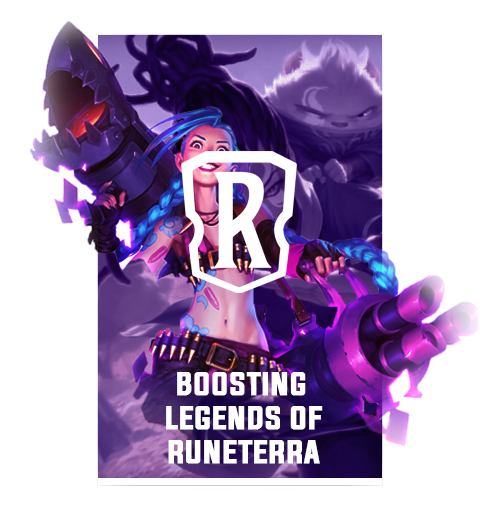
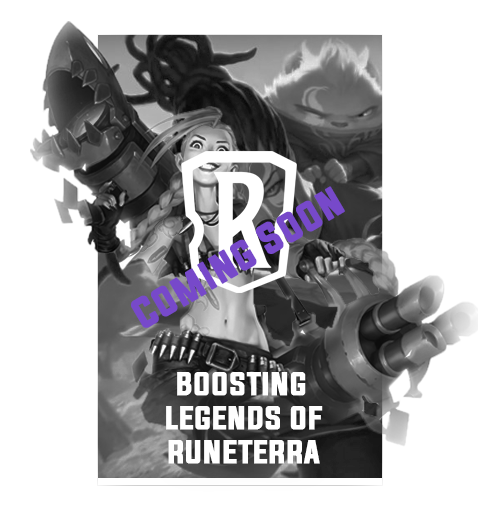
Disabled TFT & LOR

diff --git a/components/Services.vue b/components/Services.vue
@@ -6,14 +6,14 @@
 				<h1>Our Services</h1>
 			</v-row>
 			<div class="services-top">
-				<div class="img-top-container" v-for="(service, index) in services_top" :key="index" :style="{ transitionDelay: `${0.3 * (index + 1)}s` }" :class="isVisible ? 'service-top-animate' : ''">
-					<img class="img-top" :src="service.image" />
-				</div>
+				<nuxt-link class="img-top-container" v-for="(service, index) in services_top" :key="index" :style="{ transitionDelay: `${0.3 * (index + 1)}s` }" :class="{'service-top-animate': isVisible}" :to="service.slug || '/'" :event="service.disabled ? '' : 'click'">
+					<img class="img-top" :class="{disabled: service.disabled}" :src="service.image" />
+				</nuxt-link>
 			</div>
 			<div class="services-bottom mt-10 mb-10">
-				<div class="img-bottom-container" v-for="(service, index) in services_bottom" :key="index" :style="{ transitionDelay: `${0.3 * (services_top.length + 1)}s` }" :class="isVisible ? 'service-bottom-animate' : ''">
-					<img class="img-bottom" :src="`/img/games/${service}`" />
-				</div>
+				<nuxt-link class="img-bottom-container" v-for="(service, index) in services_bottom" :key="index" :style="{ transitionDelay: `${0.3 * (services_top.length + 1)}s` }" :class="{'service-bottom-animate': isVisible}" :to="service.url || '/'" :event="!service.url ? '' : 'click'">
+					<img class="img-bottom" :class="{disabled: !service.url}" :src="`/img/games/${service.image}`" />
+				</nuxt-link>
 			</div>
 		</v-container>
 	</section>
@@ -26,9 +26,16 @@ export default {
 	data: () => ({
 		services_top: games,
 		services_bottom: [
-			"unranked_smurf.png",
-			"coaching.png",
-			"account_market.png",
+			{
+				image: "unranked_smurf.png",
+			},
+			{
+				image: "coaching.png",
+				url: "/coaching",
+			},
+			{
+				image: "account_market.png",
+			},
 		],
 		isVisible: false,
 	}),
@@ -39,7 +46,7 @@ export default {
 				rect.top + rect.height > 0 && rect.top - window.innerHeight < 0
 			);
 		},
-		handleAnimations() {
+		animate() {
 			let isInViewport = this.isInViewport(this.$refs.servicesViewPort);
 			if (isInViewport && !this.isVisible) {
 				this.isVisible = true;
@@ -47,13 +54,12 @@ export default {
 		},
 	},
 	mounted() {
-		window.addEventListener("scroll", this.handleAnimations);
-		window.addEventListener("resize", this.handleAnimations);
-		this.handleAnimations();
+		window.addEventListener("scroll", this.animate);
+		window.addEventListener("resize", this.animate);
 	},
 	beforeDestroy() {
-		window.removeEventListener("scroll", this.handleAnimations);
-		window.addEventListener("resize", this.handleAnimations);
+		window.removeEventListener("scroll", this.animate);
+		window.addEventListener("resize", this.animate);
 	},
 };
 </script>
@@ -142,6 +148,12 @@ section {
 	height: 20%;
 	z-index: 5;
 }
+
+.disabled:hover {
+	transform: none;
+	cursor: not-allowed;
+}
+
 @media only screen and (max-width: 1600px) {
 	section {
 		margin-top: -160px;
